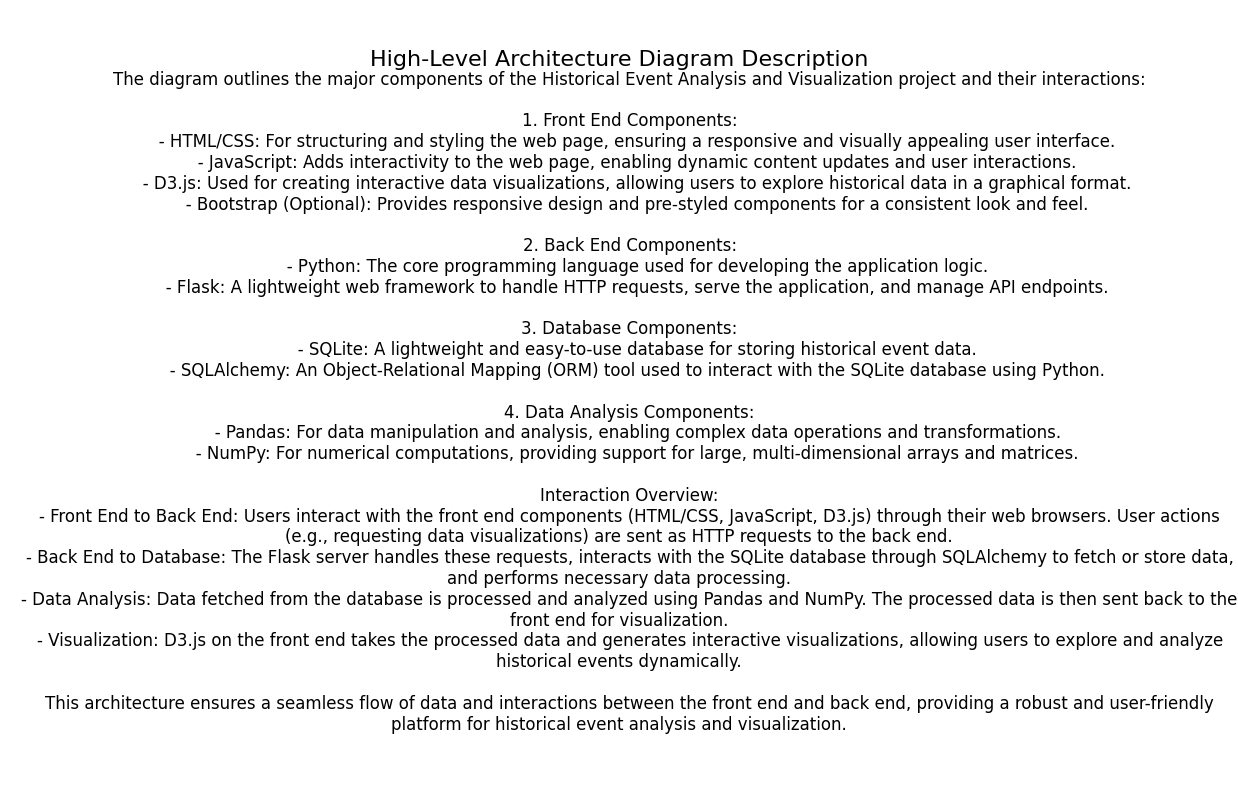
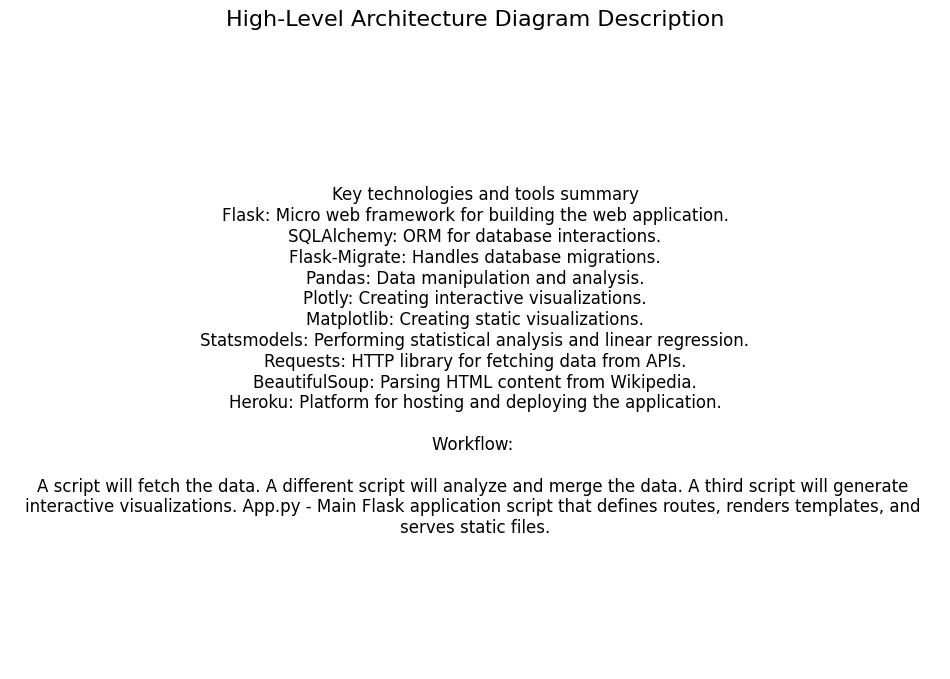
readme and arch. updated

Changed region(s): [[0.0305, 0.0, 1.0, 0.8351], [0.0305, 0.866, 0.9768, 0.9278]]

diff --git a/high_level_architecture_description.py b/high_level_architecture_description.py
@@ -8,33 +8,23 @@ def draw_diagram():
 
     # Define the text
     text = """
-    The diagram outlines the major components of the Historical Event Analysis and Visualization project and their interactions:
+    Key technologies and tools summary
+Flask: Micro web framework for building the web application.
+SQLAlchemy: ORM for database interactions.
+Flask-Migrate: Handles database migrations.
+Pandas: Data manipulation and analysis.
+Plotly: Creating interactive visualizations.
+Matplotlib: Creating static visualizations.
+Statsmodels: Performing statistical analysis and linear regression.
+Requests: HTTP library for fetching data from APIs.
+BeautifulSoup: Parsing HTML content from Wikipedia.
+Heroku: Platform for hosting and deploying the application.
 
-    1. Front End Components:
-       - HTML/CSS: For structuring and styling the web page, ensuring a responsive and visually appealing user interface.
-       - JavaScript: Adds interactivity to the web page, enabling dynamic content updates and user interactions.
-       - D3.js: Used for creating interactive data visualizations, allowing users to explore historical data in a graphical format.
-       - Bootstrap (Optional): Provides responsive design and pre-styled components for a consistent look and feel.
+Workflow: 
 
-    2. Back End Components:
-       - Python: The core programming language used for developing the application logic.
-       - Flask: A lightweight web framework to handle HTTP requests, serve the application, and manage API endpoints.
-
-    3. Database Components:
-       - SQLite: A lightweight and easy-to-use database for storing historical event data.
-       - SQLAlchemy: An Object-Relational Mapping (ORM) tool used to interact with the SQLite database using Python.
-
-    4. Data Analysis Components:
-       - Pandas: For data manipulation and analysis, enabling complex data operations and transformations.
-       - NumPy: For numerical computations, providing support for large, multi-dimensional arrays and matrices.
-
-    Interaction Overview:
-    - Front End to Back End: Users interact with the front end components (HTML/CSS, JavaScript, D3.js) through their web browsers. User actions (e.g., requesting data visualizations) are sent as HTTP requests to the back end.
-    - Back End to Database: The Flask server handles these requests, interacts with the SQLite database through SQLAlchemy to fetch or store data, and performs necessary data processing.
-    - Data Analysis: Data fetched from the database is processed and analyzed using Pandas and NumPy. The processed data is then sent back to the front end for visualization.
-    - Visualization: D3.js on the front end takes the processed data and generates interactive visualizations, allowing users to explore and analyze historical events dynamically.
-
-    This architecture ensures a seamless flow of data and interactions between the front end and back end, providing a robust and user-friendly platform for historical event analysis and visualization.
+A script will fetch the data. A different script will analyze and merge the data. A third script will generate 
+interactive visualizations. App.py - Main Flask application script that defines routes, renders templates, and 
+serves static files.
     """
 
     # Add the text to the figure
@@ -44,7 +34,7 @@ def draw_diagram():
     ax.axis('off')
 
     # Save the image to the specified location in your project directory
-    plt.savefig("/mnt/d/repo/historical-event-analysis/historical-event-analysis/high_level_architecture_description.png", bbox_inches='tight', pad_inches=0.5)
+    plt.savefig("/mnt/d/repo/historical-event-analysis/high_level_architecture_description.png", bbox_inches='tight', pad_inches=0.1)
     # Comment out plt.show() if running in a non-GUI environment
     # plt.show()
 

diff --git a/README.md b/README.md
@@ -1,18 +1,17 @@
 # historical-event-analysis - https://historical-event-analysis-208cb43b9ace.herokuapp.com/
 Historical Event Analysis and Visualization app
 
-Description: An app that collects data on significant historical events, analyzes their impact, and displays them in an interactive timeline.
+Description: the Historical Event Analysis application is designed to analyze and visualize the correlation between significant historical discoveries and economic data (specifically GDP per capita) over time. This web-based application aims to provide insightful visualizations that help users understand how technological and scientific advancements have impacted economic growth.
 
 Technology Stack
 1.	Front End:
 o	HTML/CSS: For structuring and styling the web page.
-o	JavaScript: For adding interactivity to the web page.
-o	D3.js: For creating interactive data visualizations.
-o	Bootstrap: For responsive design and pre-styled components.
+o	JavaScript: For adding interactivity to the web page. #to be implemented
+o	D3.js: For creating interactive data visualizations. #to be implemented
 
 2.	Back End:
-o	Python: For writing the core logic of your application.
-o	Flask: Lightweight web framework to handle HTTP requests and serve your app.
+o	Python: For writing the core logic of application.
+o	Flask: Lightweight web framework to handle HTTP requests and serve app.
 
 3.	Database:
 o	SQLite: Simple and suitable for this project.
@@ -26,8 +25,28 @@ o	NumPy: For numerical computations.
 o	Github
 o	Git
 
-
 Here is a list of some of the challanges I faced:
-- Capturing the exact dates of the historical events from the Wikipedia's API was challanging, considering the unstructured natured of the returned data. I decided to use a regular expression to extract the first four-digit year from the text. This is clearly not perfect since it is possible that the first 4-digit number might be the wrong date of not a date at all.
-- I have decided to go with manual entry for the discovery year. Wikipedia's data seem to be too unstructure to allow for code to find it. Another issue seems to be that technological discoveries have multiple discovery dates. Because of iteration and MVP looking very different than the technology that also generated change in the world, it is hard to pinpoint a specific date.
+- Capturing the exact dates of the historical events from the Wikipedia's API was challanging, considering the unstructured natured of the returned data. I tried using REs to extract the first four-digit year from the text. This is clearly not perfect since it is possible (and, as I have found out, likely) that the first 4-digit number might be the wrong date of not a date at all. I did not find a solution to this and had to add dates manually.
+- I have decided to go with manual entry for the discovery year. Wikipedia's data seem to be too unstructure to allow for the year to be found through a script. Another issue seems to be that technological discoveries have multiple discovery dates. Because of iteration and MVP looking very different than the technology that also generated change in the world, it is hard to pinpoint a specific date.
 - Path Dependency - files must be in exact folders. Folders must be in exact folders. Location location location should be the software development mantra as well.
+
+
+
+Key technologies and tools summary:
+
+Flask: Micro web framework for building the web application.
+SQLAlchemy: ORM for database interactions.
+Flask-Migrate: Handles database migrations.
+Pandas: Data manipulation and analysis.
+Plotly: Creating interactive visualizations.
+Matplotlib: Creating static visualizations.
+Statsmodels: Performing statistical analysis and linear regression.
+Requests: HTTP library for fetching data from APIs.
+BeautifulSoup: Parsing HTML content from Wikipedia.
+Heroku: Platform for hosting and deploying the application.
+GitHub Actions: CI/CD pipeline for automating testing and deployment.
+
+Workflow in a few words: 
+
+A script will fetch the data. A different script will analyze and merge the data. A third script will generate interactive visualizations. App.py - Main Flask application script that defines routes, renders templates, and serves static files.
+
